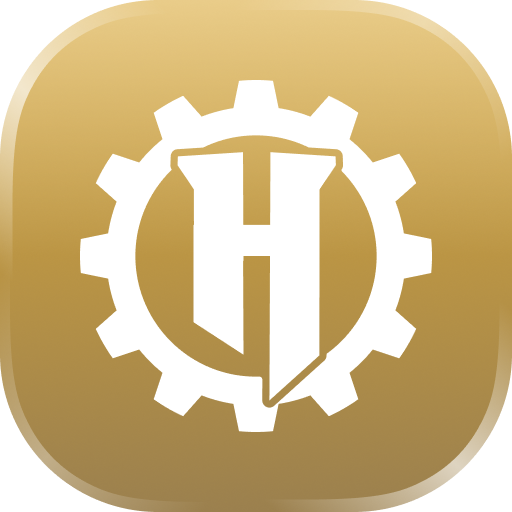
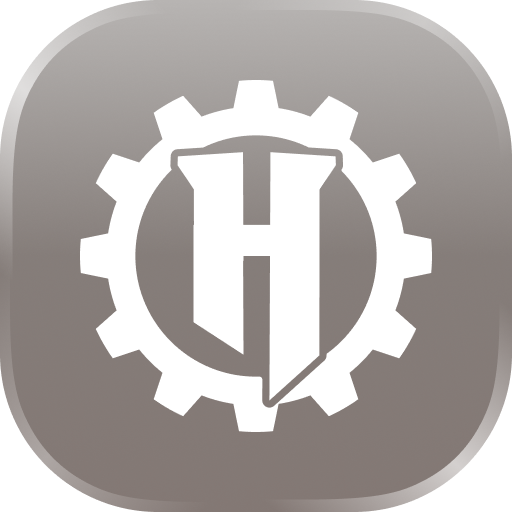
feat: add download achievement profile badges

diff --git a/pegasus/components/pages/ProfilePage.js b/pegasus/components/pages/ProfilePage.js
@@ -282,6 +282,18 @@ export default function ProfilePage({ user, isBanned, isSubscribed: initialSubsc
             availableCodes.add("first_project");
         }
 
+        if(achievementCodes.has("downloads_100")) {
+            availableCodes.add("downloads_100");
+        }
+
+        if(achievementCodes.has("downloads_500")) {
+            availableCodes.add("downloads_500");
+        }
+
+        if(achievementCodes.has("downloads_10000")) {
+            availableCodes.add("downloads_10000");
+        }
+
         return PROFILE_BADGES.filter((badge) => availableCodes.has(badge.code));
     }, [achievementCodes, profileUser?.isRole, profileUser?.isVerified]);
     const activeProfileBadgeCode = getProfileBadgeCode(profileUser);

diff --git a/pegasus/utils/profileBadges.js b/pegasus/utils/profileBadges.js
@@ -15,6 +15,18 @@ export const PROFILE_BADGES = [
 		code: "first_project",
 		icon: "/badges/first_project_badge.png",
 	},
+	{
+		code: "downloads_100",
+		icon: "/badges/100_downloads_badge.png",
+	},
+	{
+		code: "downloads_500",
+		icon: "/badges/500_downloads_badge.png",
+	},
+	{
+		code: "downloads_10000",
+		icon: "/badges/10000_downloads_badge.png",
+	},
 ];
 
 export const PROFILE_BADGE_BY_CODE = PROFILE_BADGES.reduce((acc, badge) => {

diff --git a/cronus/utils/profileBadges.js b/cronus/utils/profileBadges.js
@@ -3,12 +3,18 @@ const PROFILE_BADGE_CODES = {
 	STAFF: "staff",
 	FIRST_PROJECT: "first_project",
 	MOD_JAM: "hytalemodjam_2026",
+	DOWNLOADS_100: "downloads_100",
+	DOWNLOADS_500: "downloads_500",
+	DOWNLOADS_10000: "downloads_10000",
 };
 
 const PROFILE_BADGE_CODE_SET = new Set(Object.values(PROFILE_BADGE_CODES));
 const ACHIEVEMENT_PROFILE_BADGES = [
 	PROFILE_BADGE_CODES.FIRST_PROJECT,
 	PROFILE_BADGE_CODES.MOD_JAM,
+	PROFILE_BADGE_CODES.DOWNLOADS_100,
+	PROFILE_BADGE_CODES.DOWNLOADS_500,
+	PROFILE_BADGE_CODES.DOWNLOADS_10000,
 ];
 
 const normalizeProfileBadgeCode = (value) => {